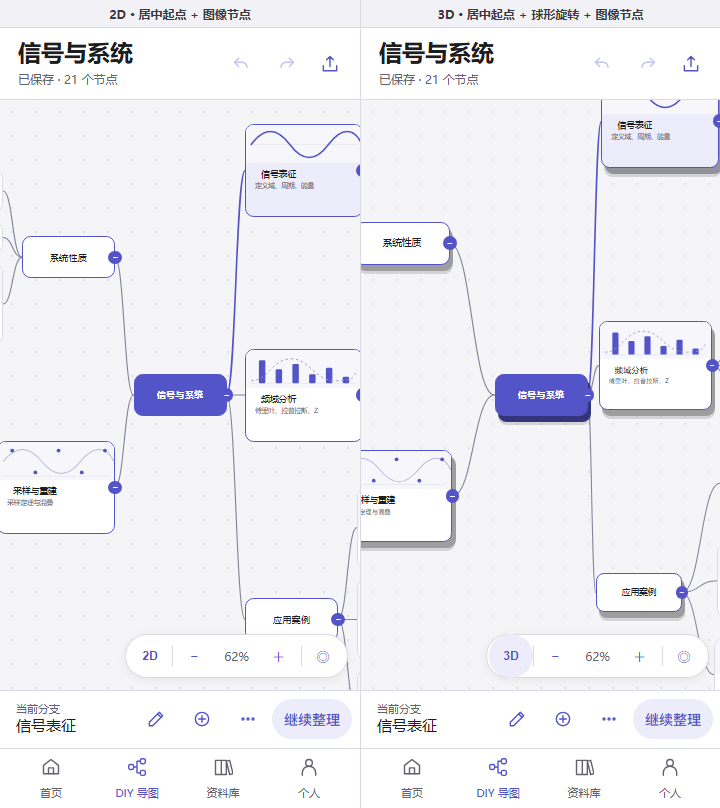
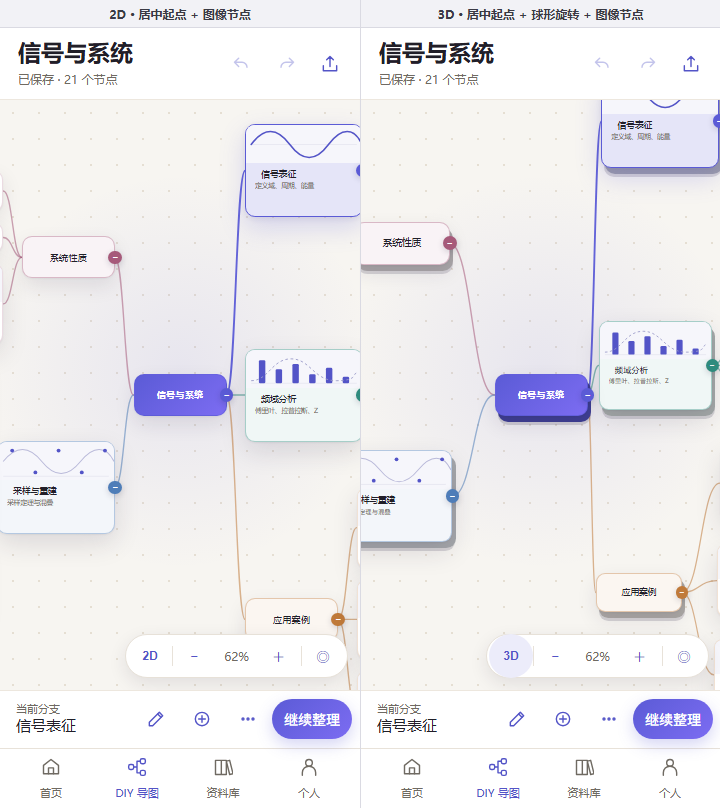
docs(diy): add soft-depth preview theme with branch colors
- add warm canvas, soft card shadows, gradient root and primary action
- color top-level branches and inherit the color on connectors, badges and selection
- keep the minimal theme as a toggle; document that native is not ported yet

diff --git a/docs/design/diy-preview.html b/docs/design/diy-preview.html
@@ -75,6 +75,26 @@
   body.embed .wrap{padding:0;gap:0;display:block}
   body.embed .side,body.embed .caption{display:none}
   body.embed .phone{border-radius:0;box-shadow:none}
+
+  /* Soft depth theme */
+  html[data-style=soft]{--bg:#F7F5F1;--surface:#FFFFFF;--text:#211F28;--muted:#6F6A62;--border:#E8E2D9;--grid:#E5DED2}
+  html[data-style=soft] body{background:#ECE8E1}
+  html[data-style=soft] .phone{box-shadow:0 24px 60px rgba(44,39,70,.16)}
+  html[data-style=soft] .head{background:rgba(255,255,255,.94);border-bottom-color:#EDE7DE}
+  html[data-style=soft] .canvas{
+    background-color:var(--bg);
+    background-image:
+      radial-gradient(circle at 50% 46%,rgba(91,91,214,.10),rgba(91,91,214,0) 54%),
+      radial-gradient(var(--grid) 1.05px,transparent 1.15px);
+    background-size:auto,26px 26px;
+  }
+  html[data-style=soft] .card.face{box-shadow:0 8px 20px rgba(35,32,60,.10),0 1px 2px rgba(35,32,60,.05)}
+  html[data-style=soft] .card.face.image-card{box-shadow:0 10px 26px rgba(35,32,60,.13),0 1px 2px rgba(35,32,60,.06)}
+  html[data-style=soft] .zoom{box-shadow:0 6px 18px rgba(35,32,60,.10);border-color:#E7E1D8}
+  html[data-style=soft] .foot{border-top-color:#EDE7DE}
+  html[data-style=soft] .chat{background:linear-gradient(135deg,#5B5BD6,#7C6CF2);color:#fff;box-shadow:0 6px 16px rgba(91,91,214,.26)}
+  html[data-style=soft] .side h2{letter-spacing:-.2px}
+  html[data-style=soft] .badge{box-shadow:0 2px 6px rgba(35,32,60,.18)}
 </style>
 </head>
 <body>
@@ -121,6 +141,10 @@
     <h2>2D / 3D 画布预览</h2>
     <p>2D 单指拖动平移；3D 单指拖动像转球一样自由旋转，滚轮缩放。点击节点选中，点击右侧圆点折叠/展开分支。</p>
     <div class="controls">
+      <div class="row">
+        <button data-style="soft" class="active">柔和立体</button>
+        <button data-style="minimal">克制</button>
+      </div>
       <div class="row">
         <button data-sample="simple" class="active">基础示例</button>
         <button data-sample="complex">复杂图像</button>
@@ -218,6 +242,7 @@
   if (params.get('sample') === 'complex') nodes = complexNodes;
   const state = {
     sample: params.get('sample') === 'complex' ? 'complex' : 'simple',
+    style: params.get('style') === 'minimal' ? 'minimal' : 'soft',
     mode: params.get('mode') === '3d' ? '3d' : '2d',
     layout: params.get('layout') === 'down' || params.get('layout') === 'right' ? params.get('layout') : 'center',
     selectedId: 'signal',
@@ -226,6 +251,7 @@
     panY: 0,
     rotation: orientationMatrix(initialYaw, initialPitch)
   };
+  document.documentElement.dataset.style = state.style;
   if (params.get('embed') === '1') document.body.classList.add('embed');
 
   const canvas = document.getElementById('canvas');
@@ -516,6 +542,20 @@
     const b = Math.min(255, Math.round((value & 255) * factor));
     return '#' + ((r << 16) | (g << 8) | b).toString(16).padStart(6, '0');
   }
+  const BRANCH_COLORS = ['#5B5BD6', '#2E8B7D', '#C07A3A', '#A65A7A', '#4E7DB8', '#7A6FA8'];
+  function hexRgba(hex, alpha) {
+    const value = parseInt(hex.slice(1), 16);
+    return `rgba(${(value >> 16) & 255},${(value >> 8) & 255},${value & 255},${alpha})`;
+  }
+  function colorMix(hex, target, weight) {
+    const a = parseInt(hex.slice(1), 16);
+    const b = parseInt(target.slice(1), 16);
+    const mix = channel => Math.round(channel(b) * (1 - weight) + channel(a) * weight);
+    const r = mix(v => (v >> 16) & 255);
+    const g = mix(v => (v >> 8) & 255);
+    const bl = mix(v => v & 255);
+    return '#' + ((r << 16) | (g << 8) | bl).toString(16).padStart(6, '0');
+  }
 
   function render() {
     const rect = canvas.getBoundingClientRect();
@@ -524,6 +564,14 @@
     if (!state.initialized) { fit(scene); state.initialized = true; }
     const path = selectedPath();
     const byId = new Map(scene.nodes.map(node => [node.id, node]));
+    const rootChildren = scene.nodes.filter(node => node.parentId === rootId);
+    const branchIndex = new Map(rootChildren.map((node, index) => [node.id, index]));
+    const branchColorFor = node => {
+      if (state.style !== 'soft' || node.depth === 0) return state.style === 'soft' ? '#5B5BD6' : '#5354C7';
+      let current = node;
+      while (current.parentId && current.parentId !== rootId) current = byId.get(current.parentId) || current;
+      return BRANCH_COLORS[(branchIndex.get(current.id) || 0) % BRANCH_COLORS.length];
+    };
     edges.setAttribute('viewBox', `0 0 ${rect.width} ${rect.height}`);
     edges.setAttribute('preserveAspectRatio', 'none');
     let edgeMarkup = '';
@@ -547,8 +595,13 @@
         const mid = (sx + ex) / 2;
         d = `M${sx} ${sy} C${mid} ${sy} ${mid} ${ey} ${ex} ${ey}`;
       }
-      const width = (onBranch ? 2.6 : 1.8) * state.zoom * ((a.scale + b.scale) / 2);
-      edgeMarkup += `<path d="${d}" fill="none" stroke="${onBranch ? '#5354C7' : '#81849B'}" stroke-width="${width}" stroke-linecap="round"/>`;
+      const branch = branchColorFor(node);
+      const soft = state.style === 'soft';
+      const width = (soft ? (onBranch ? 3 : 2.2) : (onBranch ? 2.6 : 1.8)) *
+        state.zoom * ((a.scale + b.scale) / 2);
+      const stroke = soft ? branch : onBranch ? '#5354C7' : '#81849B';
+      const opacity = soft ? (onBranch ? 0.95 : 0.55) : 1;
+      edgeMarkup += `<path d="${d}" fill="none" stroke="${stroke}" stroke-opacity="${opacity}" stroke-width="${width}" stroke-linecap="round"/>`;
     }
     edges.innerHTML = edgeMarkup;
 
@@ -567,26 +620,58 @@
       const selected = node.id === state.selectedId;
       const onBranch = path.has(node.id);
       const isRoot = node.depth === 0;
-      const fill = isRoot ? '#5354C7' : selected ? '#ECECFA' : '#FFFFFF';
-      const stroke = isRoot ? (selected ? '#FFFFFF' : '#5354C7') : selected ? '#5354C7' : onBranch ? '#5354C7' : node.depth === 1 ? '#5354C7' : '#DADAE2';
-      const strokeWidth = (isRoot ? (selected ? 2.5 : 1) : selected ? 2.5 : onBranch ? 1.8 : node.depth === 1 ? 1.2 : 1) * state.zoom * item.scale;
-      const radius = 14 * state.zoom * item.scale;
+      const soft = state.style === 'soft';
+      const branch = branchColorFor(node);
+      let fill;
+      let stroke;
+      let strokeWidth;
+      if (soft) {
+        if (isRoot) {
+          fill = '#5B5BD6';
+          stroke = selected ? '#FFFFFF' : hexRgba(branch, 0.55);
+          strokeWidth = selected ? 2.5 : 1;
+        } else if (selected) {
+          fill = colorMix(branch, '#FFFFFF', 0.16);
+          stroke = branch;
+          strokeWidth = 2.5;
+        } else if (onBranch) {
+          fill = colorMix(branch, '#FFFFFF', 0.10);
+          stroke = branch;
+          strokeWidth = 1.8;
+        } else if (node.depth === 1) {
+          fill = colorMix(branch, '#FFFFFF', 0.07);
+          stroke = hexRgba(branch, 0.38);
+          strokeWidth = 1.4;
+        } else {
+          fill = '#FFFFFF';
+          stroke = hexRgba(branch, 0.22);
+          strokeWidth = 1;
+        }
+      } else {
+        fill = isRoot ? '#5354C7' : selected ? '#ECECFA' : '#FFFFFF';
+        stroke = isRoot ? (selected ? '#FFFFFF' : '#5354C7') : selected ? '#5354C7' : onBranch ? '#5354C7' : node.depth === 1 ? '#5354C7' : '#DADAE2';
+        strokeWidth = isRoot ? (selected ? 2.5 : 1) : selected ? 2.5 : onBranch ? 1.8 : node.depth === 1 ? 1.2 : 1;
+      }
+      strokeWidth *= state.zoom * item.scale;
+      const radius = (soft ? 16 : 14) * state.zoom * item.scale;
       const lift = state.mode === '3d' ? 10 * state.zoom * item.scale : 0;
+      const cardBackground = soft && isRoot ? 'linear-gradient(135deg,#5B5BD6 0%,#7C6CF2 100%)' : fill;
 
       if (state.mode === '3d') {
         const shadow = document.createElement('div');
-        shadow.className = 'card';
-        shadow.style.cssText = `left:${item.x - item.w / 2 + 5 * item.scale * state.zoom}px;top:${item.y - item.h / 2 + lift + 5 * item.scale * state.zoom}px;width:${item.w}px;height:${item.h}px;border-radius:${radius}px;background:rgba(16,17,20,.14);pointer-events:none`;
+        shadow.className = 'card depth-shadow';
+        shadow.style.cssText = `left:${item.x - item.w / 2 + 5 * item.scale * state.zoom}px;top:${item.y - item.h / 2 + lift + 5 * item.scale * state.zoom}px;width:${item.w}px;height:${item.h}px;border-radius:${radius}px;background:${soft ? 'rgba(35,32,60,.16)' : 'rgba(16,17,20,.14)'};pointer-events:none`;
         cards.appendChild(shadow);
         const side = document.createElement('div');
-        side.className = 'card';
-        side.style.cssText = `left:${item.x - item.w / 2 + lift * .55}px;top:${item.y - item.h / 2 + lift}px;width:${item.w}px;height:${item.h}px;border-radius:${radius}px;background:${colorShade(fill, 0.62)};pointer-events:none`;
+        side.className = 'card depth-side';
+        side.style.cssText = `left:${item.x - item.w / 2 + lift * .55}px;top:${item.y - item.h / 2 + lift}px;width:${item.w}px;height:${item.h}px;border-radius:${radius}px;background:${colorShade(fill, soft ? 0.68 : 0.62)};pointer-events:none`;
         cards.appendChild(side);
       }
       const card = document.createElement('div');
-      card.className = 'card';
+      card.className = 'card face';
       card.dataset.node = node.id;
-      card.style.cssText = `left:${item.x - item.w / 2}px;top:${item.y - item.h / 2}px;width:${item.w}px;height:${item.h}px;border-radius:${radius}px;background:${fill};border:${strokeWidth}px solid ${stroke};color:${isRoot ? '#FFFFFF' : '#1D1D1F'};font-size:${Math.max(7, 15 * state.zoom * item.scale)}px;font-weight:${isRoot ? 700 : selected ? 500 : 400}`;
+      card.style.cssText = `left:${item.x - item.w / 2}px;top:${item.y - item.h / 2}px;width:${item.w}px;height:${item.h}px;border-radius:${radius}px;background:${cardBackground};border:${strokeWidth}px solid ${stroke};color:${isRoot ? '#FFFFFF' : soft ? '#211F28' : '#1D1D1F'};font-size:${Math.max(7, 15 * state.zoom * item.scale)}px;font-weight:${isRoot ? 700 : selected ? 500 : 400}`;
+      if (soft && selected && !isRoot) card.style.boxShadow = `0 10px 26px ${hexRgba(branch, 0.22)}, 0 2px 6px rgba(35,32,60,.08)`;
       if (node.image) {
         card.classList.add('image-card');
         const thumb = document.createElement('img');
@@ -615,6 +700,7 @@
           tag.className = 'tag';
           tag.textContent = node.tag;
           tag.style.fontSize = `${Math.max(6, 10 * state.zoom * item.scale)}px`;
+          if (soft) tag.style.background = branch;
           card.appendChild(tag);
         }
       } else {
@@ -634,7 +720,7 @@
         const badge = document.createElement('div');
         badge.className = 'badge';
         badge.textContent = node.collapsed ? (node.hiddenCount > 99 ? '+99' : '+' + node.hiddenCount) : '−';
-        badge.style.cssText = `left:${item.x + item.w / 2 - 11 * item.scale * state.zoom}px;top:${item.y - 11 * item.scale * state.zoom}px;width:${22 * item.scale * state.zoom}px;height:${22 * item.scale * state.zoom}px;font-size:${Math.max(6, (node.collapsed ? 10 : 14) * state.zoom * item.scale)}px`;
+        badge.style.cssText = `left:${item.x + item.w / 2 - 11 * item.scale * state.zoom}px;top:${item.y - 11 * item.scale * state.zoom}px;width:${22 * item.scale * state.zoom}px;height:${22 * item.scale * state.zoom}px;font-size:${Math.max(6, (node.collapsed ? 10 : 14) * state.zoom * item.scale)}px;background:${soft ? branch : '#5354C7'}`;
         badge.addEventListener('click', event => {
           event.stopPropagation();
           const target = nodes.find(n => n.id === node.id);
@@ -657,6 +743,7 @@
     document.getElementById('meta-selected').textContent = selectedNode.text;
     document.getElementById('mode-btn').textContent = state.mode === '3d' ? '3D' : '2D';
     document.getElementById('mode-btn').classList.toggle('active', state.mode === '3d');
+    document.querySelectorAll('[data-style]').forEach(button => button.classList.toggle('active', button.dataset.style === state.style));
     document.querySelectorAll('[data-sample]').forEach(button => button.classList.toggle('active', button.dataset.sample === state.sample));
     document.querySelectorAll('[data-mode]').forEach(button => button.classList.toggle('active', button.dataset.mode === state.mode));
     document.querySelectorAll('[data-layout]').forEach(button => button.classList.toggle('active', button.dataset.layout === state.layout));
@@ -666,8 +753,15 @@
 
   function updateUrl() {
     try {
-      history.replaceState(null, '', '?sample=' + state.sample + '&mode=' + state.mode + '&layout=' + state.layout);
+      history.replaceState(null, '', '?sample=' + state.sample + '&style=' + state.style +
+        '&mode=' + state.mode + '&layout=' + state.layout);
     } catch (_) {}
+  }
+  function setStyle(style) {
+    state.style = style;
+    document.documentElement.dataset.style = style;
+    updateUrl();
+    render();
   }
   function settleView() {
     render();
@@ -722,6 +816,7 @@
     target.collapsed = !target.collapsed;
     render();
   });
+  document.querySelectorAll('[data-style]').forEach(button => button.addEventListener('click', () => setStyle(button.dataset.style)));
   document.querySelectorAll('[data-sample]').forEach(button => button.addEventListener('click', () => setSample(button.dataset.sample)));
   document.querySelectorAll('[data-mode]').forEach(button => button.addEventListener('click', () => setMode(button.dataset.mode)));
   document.querySelectorAll('[data-layout]').forEach(button => button.addEventListener('click', () => setLayout(button.dataset.layout)));

diff --git a/docs/design/README.md b/docs/design/README.md
@@ -8,6 +8,7 @@
 - 2D 拖动平移；3D 单指拖动像转球一样自由旋转，滚轮缩放，点 `◎` 适应画布，点 `复位球体` 回到默认朝向；
 - 点击节点选中，点击节点右侧 `− / +N` 折叠或展开分支；
 - 切换居中起点 / 向右 / 向下布局；居中起点把根节点放在场景和轨道中心，一级分支左右展开。
+- 切换 `柔和立体 / 克制` 两种外观。
 
 ![2D 与 3D 画布对照](diy-2d-3d-preview.png)
 
@@ -17,6 +18,13 @@
 - 右：3D，根节点在轨道中心，轨迹球自由旋转与透视缩放；卡片保持正面朝向（billboard），带阴影和厚度面，选中路径仍用强调色。
 - 3D 在投影前按层级稍微展开树间距，避免旋转后父子卡片挤在一起。
 - 真机上的字体实绘、触控命中、双指缩放、深色和软键盘仍需按 [DIY 设计说明](../implementation/diy-design.md) 补测。
+
+## 外观主题（预览）
+
+- **柔和立体（默认）**：暖白画布、柔和投影、根节点与“继续整理”渐变、低饱和分支色（靛 / 青 / 琥珀 / 玫红 / 蓝 / 紫），连线、徽标和选中路径继承分支色。
+- **克制**：之前的暖白 + 蓝色强调，单色连线，适合更安静的阅读。
+
+两个主题都可在预览页切换。**原生画布目前仍是单色“克制”风格，柔和立体主题尚未接入原生**；确认方向后再移植 Canvas 绘制、分支色和阴影。
 
 ## 复杂图像节点原型
 

diff --git a/docs/implementation/diy-design.md b/docs/implementation/diy-design.md
@@ -89,6 +89,12 @@
 - 静态检查：`npm run check` 通过（18 个 ArkTS 文件、双主题对比度）。
 - 未验证：本机没有 HarmonyOS SDK 与真机，未做 ArkTS 编译、原生预览、软键盘、双指手势、200/500 节点真机压力；现有 `docs/screenshots/diy*.jpg` 为本轮设计调整前的原生预览，不能作为新视觉的验收截图。`docs/design/diy-2d-3d-preview.png` 是 Node 计算生成的设计对照，也不是原生截图。
 
+## 柔和立体主题（仅浏览器原型）
+
+- 预览页新增 `柔和立体 / 克制` 外观切换，默认柔和立体：暖白画布、径向柔光、卡片柔和投影、根节点与“继续整理”渐变、低饱和分支色（靛 / 青 / 琥珀 / 玫红 / 蓝 / 紫）。
+- 一级分支、叶子、连线、折叠徽标和选中路径继承分支色；选中节点带轻微分支色光晕。
+- 这是浏览器预览的视觉方案，**原生 Canvas 仍是单色“克制”主题**；尚未移植分支色、阴影、渐变和暖白背景。移植前需要确认分支色数量、深色配色和 500 节点阴影成本。
+
 ## 图像节点原型（未接入原生）
 
 - 浏览器预览增加“复杂图像”示例：21 个节点、14 个内嵌 SVG 缩略图、备注和标签，支持 2D/3D、球形旋转、聚焦与适应画布。
